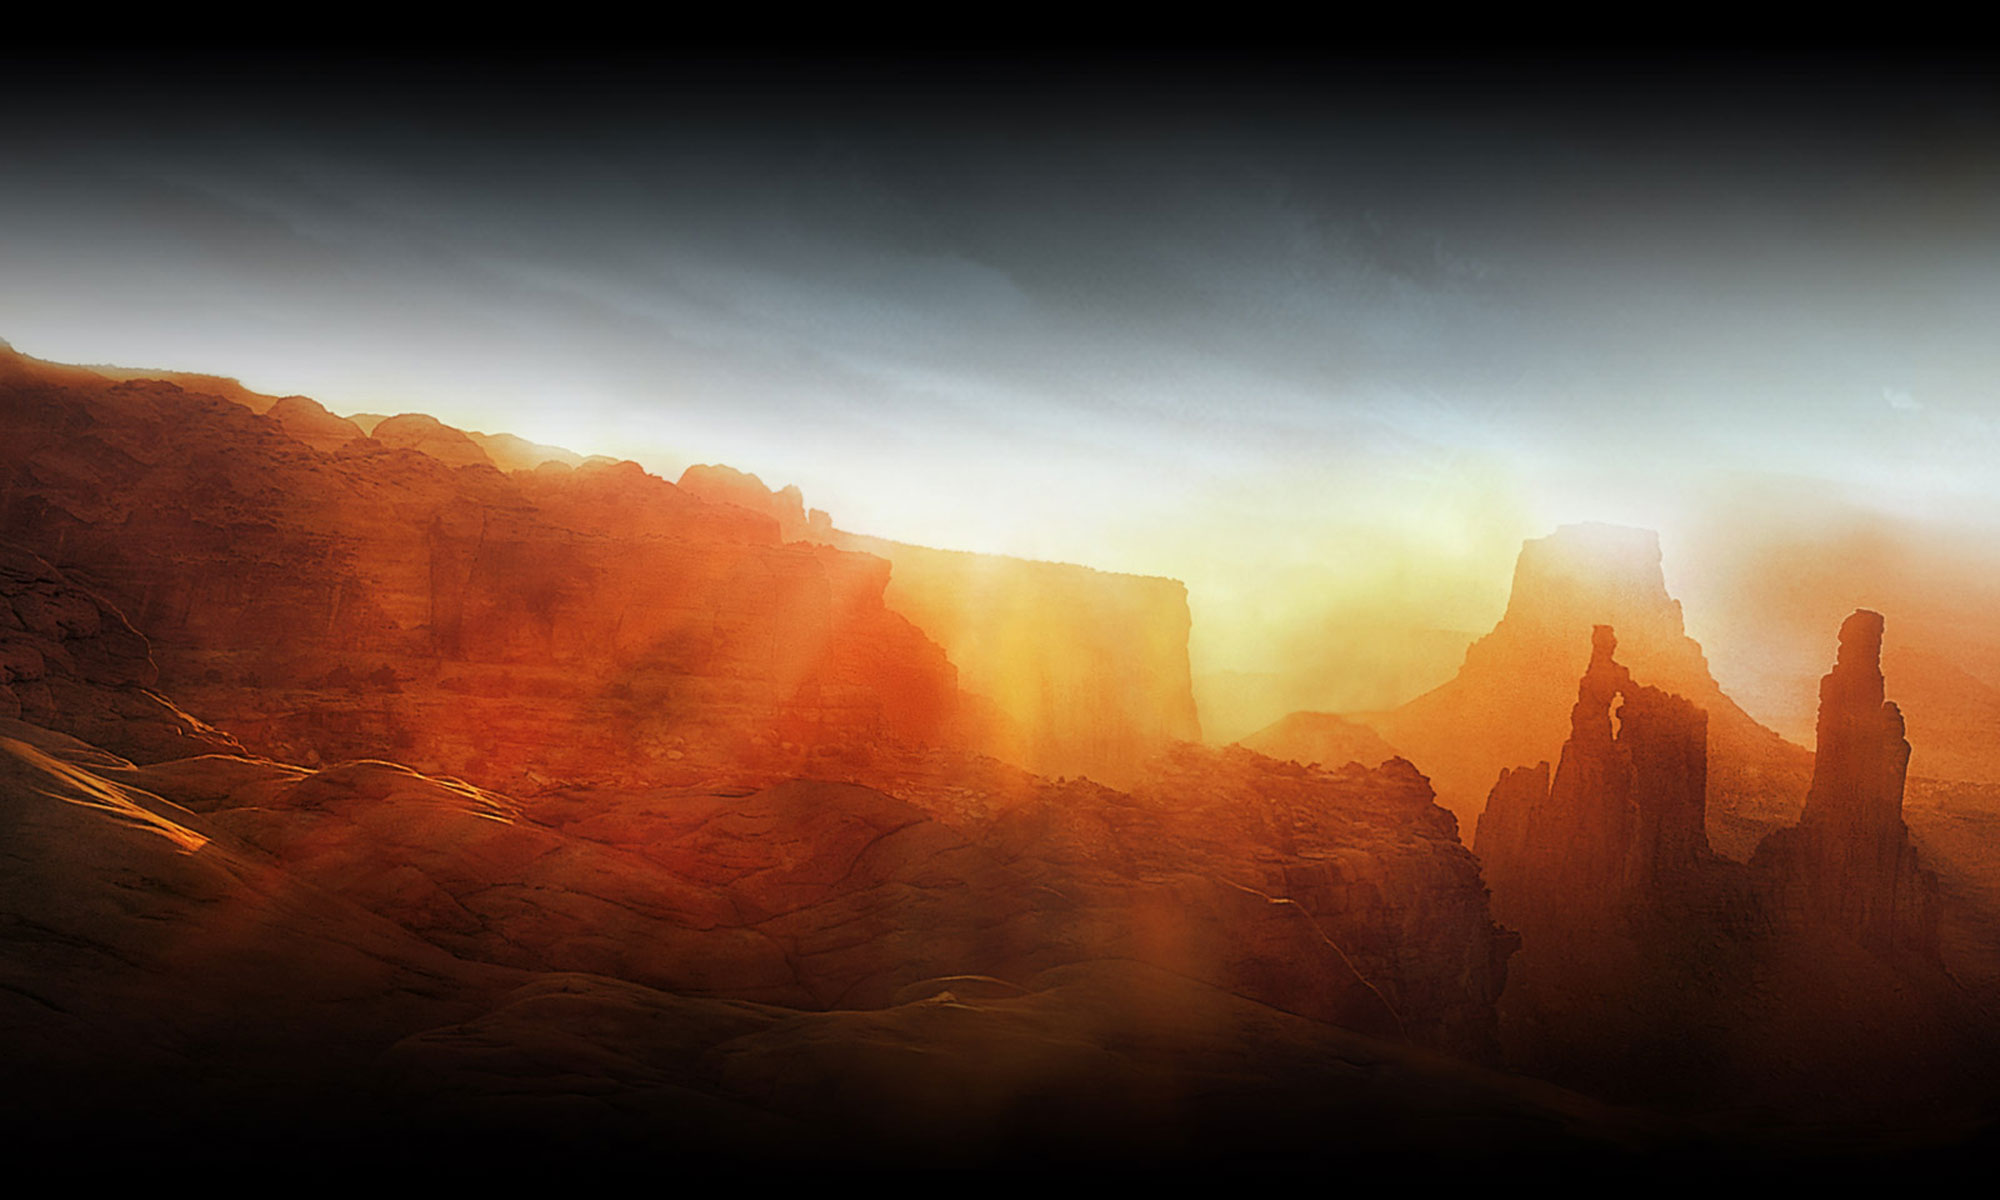
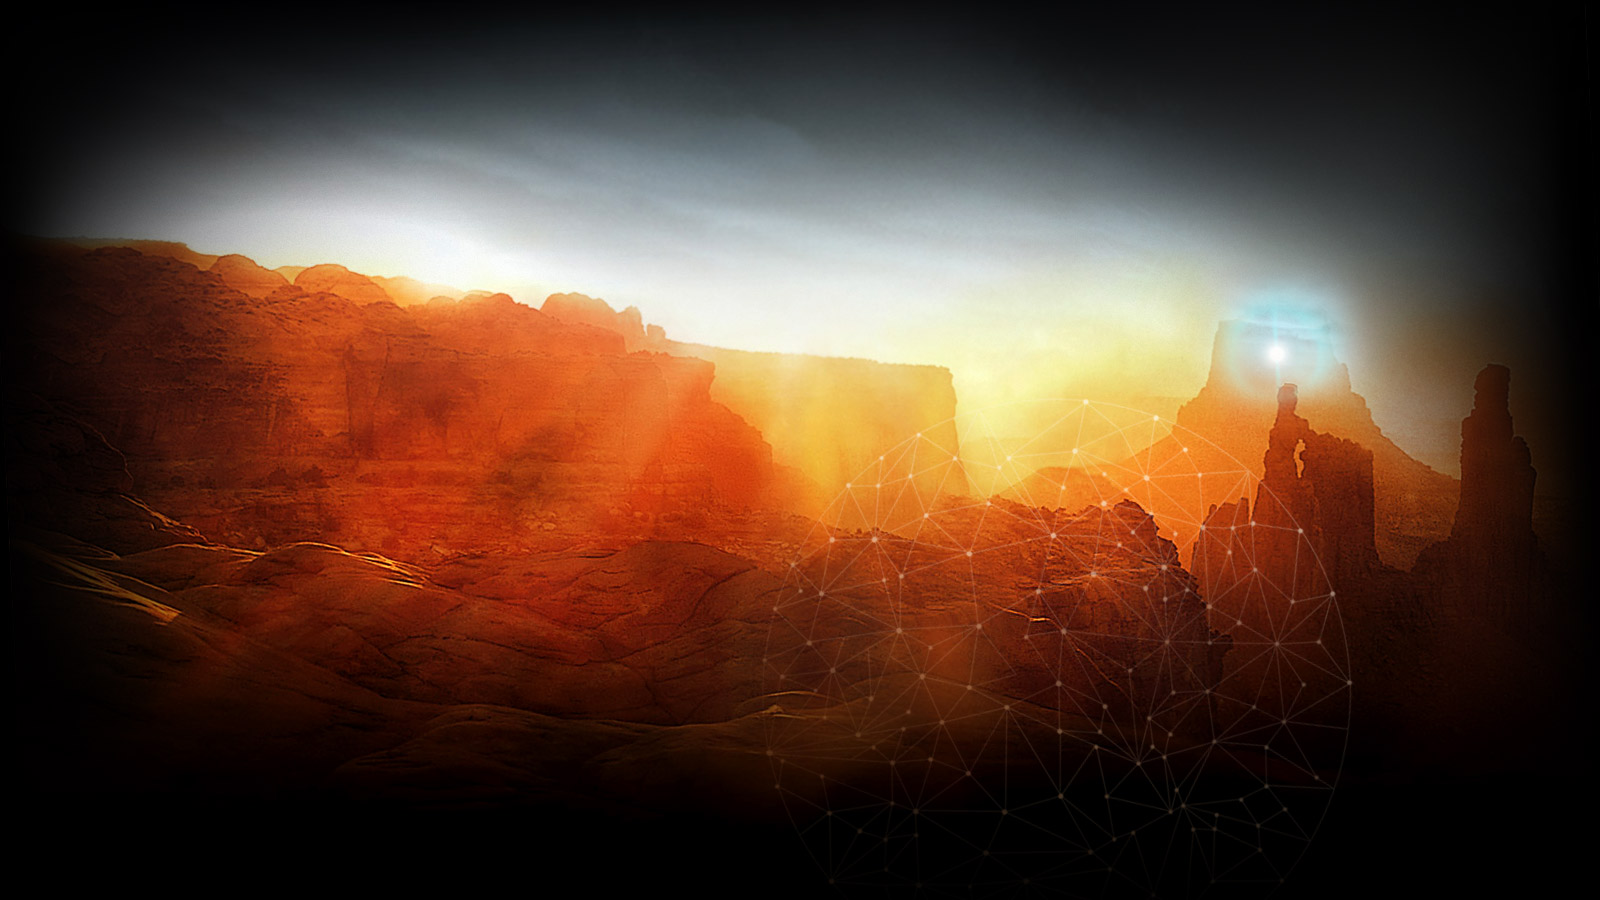
main alpha

diff --git a/css/main.css b/css/main.css
@@ -20,7 +20,7 @@ a:focus {outline: none;}
 ::-moz-selection {color: #ffffff; background: #94aabe;}
 
 html {height: 100%;}
-body {overflow: auto; height: 100%; min-width: 950px; min-height: 600px; background-color: #000000; color: #d6e5ec; line-height: 150%; font-family: 'Roboto Condensed', Helvetica, sans-serif;}
+body {overflow: auto; height: 100%; min-width: 970px; min-height: 600px; background-color: #000000; color: #d6e5ec; line-height: 150%; font-family: 'Roboto Condensed', Helvetica, sans-serif;}
 
 b, strong, h1, h2, h3, h4, h5, h6 {font-weight: normal; font-weight: 400;}
 i, em {font-style: normal;}
@@ -32,7 +32,7 @@ a:hover {color: #ffdd98; text-shadow: 0px -4px 8px #a98e57;}
 .wrap404 h2 {padding: 40px 0 30px 0; font-size: 240%;}
 .wrap404 p {font-size: 130%; line-height: 140%;}
 
-.copy {padding: 0 10px 20px 10px; font-size: 100%; color: #657379; text-align: center; opacity: 0.50; -moz-opacity: 0.850; -khtml-opacity: 0.50; filter: alpha(opacity=50);}
+.copy {padding: 0 10px 20px 10px; font-size: 14px; color: #657379; text-align: center; line-height: 30px;}
 
 #counters {position: fixed; bottom: -160px; left: 10px; z-index: 1005; width: 140px; height: 180px; text-align: right; background-image:url('/images/counters.png'); background-position: right top; background-repeat: no-repeat;}
 .counters_list {padding-top: 30px; opacity: 0.40; -moz-opacity: 0.40; -khtml-opacity: 0.40; filter: alpha(opacity=40);}
@@ -41,8 +41,10 @@ a:hover {color: #ffdd98; text-shadow: 0px -4px 8px #a98e57;}
 
 .fancybox_img img {display: none !important;}
 
-.mainWrap {position: relative; top: 0; left: 0; width: 100%; min-width: 950px; max-width: 1700px; min-height: 100px; overflow: hidden; z-index: 1; margin: 0 auto; text-align: center;}
-.mainBG {display: block; width: 100%;}
+/*.mainWrap {position: absolute; top: 0; left: 0; width: 100%; min-width: 970px; max-width: 1600px; min-height: 100px; overflow: hidden; z-index: 1; margin: 0 auto; text-align: center;}
+.mainBG {display: block; width: 100%;}*/
+
+
 .mainOverlay {position: absolute; top: 0; left: 0; width: 100%; height: 100%; z-index: 2;}
 
 

diff --git a/index.php b/index.php
@@ -1,6 +1,6 @@
 <!DOCTYPE html PUBLIC "-//W3C//DTD XHTML 1.0 Transitional//EN" "http://www.w3.org/TR/xhtml1/DTD/xhtml1-transitional.dtd">
 <html xmlns="http://www.w3.org/1999/xhtml">
-<head><title>Название — Дата</title>
+<head><title>&laquo;Гостья&raquo; — От автора саги &laquo;Сумерки&raquo; — В кино с 28 марта</title>
 
 <meta http-equiv="Content-Type" content="text/html; charset=utf-8">
 <meta http-equiv="X-UA-Compatible" content="IE=edge">
@@ -37,12 +37,6 @@
 jQuery(function($) {
 $('.dim').fadeOut(500);
 });
-
-//jQuery(function($) {
-//$("#glow").animate({opacity:0.5},2000);
-//$("#glow").delay(500);
-//$("#glow").animate({opacity:1.0},2000);
-//});
 </script>
 
 
@@ -50,21 +44,21 @@ $('.dim').fadeOut(500);
 $(document).ready(function(){
 var $glowingLogo = $("#glow"),cycle;
 (cycle = function() {
-$glowingLogo.animate({opacity:0.5},2000).delay(500).animate({opacity:1.0},2000, cycle);
+$glowingLogo.animate({opacity:0.4},4000).delay(500).animate({opacity:1.0},4000, cycle);
 })();
 });
 </script>
 
 <script type="text/javascript">
 jQuery(function($) {
-$("#menu1").css({top:"-80px",opacity:0});
-$("#menu2").css({top:"-80px",opacity:0});
-$("#menu3").css({top:"-80px",opacity:0});
-$("#menu4").css({top:"-80px",opacity:0});
+$('[id^=menu]').css({top:"-40px",opacity:0});
 $("#menu1").delay(0).animate({top:"0px",opacity:1},1000);
 $("#menu2").delay(200).animate({top:"0px",opacity:1},1000);
-$("#menu3").delay(240).animate({top:"0px",opacity:1},1000);
-$("#menu4").delay(280).animate({top:"0px",opacity:1},1000);
+$("#menu3").delay(220).animate({top:"0px",opacity:1},1000);
+$("#menu4").delay(240).animate({top:"0px",opacity:1},1000);
+$("#menu5").delay(260).animate({top:"0px",opacity:1},1000);
+$("#menu6").delay(280).animate({top:"0px",opacity:1},1000);
+$("#menu7").delay(300).animate({top:"0px",opacity:1},1000);
 });
 </script>
 
@@ -87,25 +81,54 @@ $("#menu4").delay(280).animate({top:"0px",opacity:1},1000);
 
 
 
-<div id="testmenu" style="position: absolute; top: 1; left: 1; width: 500px; height: 80px; margin: 0 auto; background-color: pink; z-index: 5; color: white;">
-<a id="menu1" href="#" style="position: relative; top: 0px; display: inline-block; width: 50px; height: 40px; background-color: gray; padding: 10px;">menu1</a>
-<a id="menu2" href="#" style="position: relative; top: 0px; display: inline-block; width: 50px; height: 40px; background-color: gray; padding: 10px;">menu2</a>
-<a id="menu3" href="#" style="position: relative; top: 0px; display: inline-block; width: 50px; height: 40px; background-color: gray; padding: 10px;">menu3</a>
-<a id="menu4" href="#" style="position: relative; top: 0px; display: inline-block; width: 50px; height: 40px; background-color: gray; padding: 10px;">menu4</a>
+<style type="text/css">
+.testmenu {position: fixed; top: 0; left: 0; width: 100%; min-width: 970px; height: 40px; margin: 0 auto; background-color: #3a4f5c; text-align: center; z-index: 5; color: white;}
+.testmenuitems {position: relative; top: 0px; display: inline-block; width: 70px; height: 16px; line-height: 20px; background-color: #2f434f; color: #ffffff !important; padding: 10px; font-size: 14px; font-weight: normal; text-transform: uppercase; text-decoration: none; border-bottom: 4px solid transparent;}
+.tm_active {border-bottom: 4px solid #ffa227;}
+.testmenuitems:hover {text-shadow: none; border-bottom: 4px solid #ffa227;}
+.tm_disabled {color: #8e9da3 !important; cursor: default;}
+.tm_disabled:hover {color: #8e9da3; border-bottom: 4px solid transparent !important; text-shadow: none;}
+</style>
+
+<div id="testmenu" class="testmenu">
+<a id="menu1" class="testmenuitems fadeout tm_active" href="/">Главная</a>
+<a id="menu2" class="testmenuitems fadeout" href="javascript:void(0)">Новости</a>
+<a id="menu3" class="testmenuitems fadeout tm_disabled" href="javascript:void(0)">Книга</a>
+<a id="menu4" class="testmenuitems fadeout tm_disabled" href="javascript:void(0)">Фильм</a>
+<a id="menu5" class="testmenuitems fadeout tm_disabled" href="javascript:void(0)">Команда</a>
+<a id="menu6" class="testmenuitems fadeout tm_disabled" href="javascript:void(0)">Видео</a>
+<a id="menu7" class="testmenuitems fadeout tm_disabled" href="javascript:void(0)">Кадры</a>
 </div>
 
 
-<div class="mainWrap">
-	<img class="mainBG noSelect" src="/images/mainBG.jpg">
+<!--div class="heroesWrap">
+	<img class="heroesBG noSelect" src="/images/heroesBG.png">
 	<div class="mainOverlay noSelect">&nbsp;</div>
 </div>
+<div class="mainWrap">
+	<img class="mainBG noSelect" src="/images/mainBG.jpg">
+</div-->
 
-<div style="text-transform: uppercase; position: absolute; left: 0; top: 30%; text-align: left; z-index: 3;">
 
-	<p><a class="fadeout" href="/404/index.php">test link</a></p>
-	
-	<img src="/images/title-glow.png" id="glow" style="display: block; padding: 20px;">
-	
+<style type="text/css">
+.bg_wrap {position: absolute; top: 20px; left: 0; width: 100%; min-width: 970px; min-height: 900px; overflow: hidden; z-index: 1; margin: 0 auto; text-align: center; background-image: url('/images/bg_main.jpg'); background-position: center top; background-repeat: no-repeat; background-size: contain;
+-ms-behavior: url(/backgroundsize.min.htc);}
+
+/*.heroes_wrap {position: absolute; top: 0; left: 0; width: 100%; min-width: 970px; max-width: 1600px; min-height: 900px; overflow: hidden; z-index: 2; margin: 0 auto; text-align: center; background-image: url('/images/heroesBG.png'); background-position: center top; background-repeat: no-repeat; background-size: contain;}*/
+
+.testtitle {position: absolute; right: 140px; top: -60px; width: 60%; height: 600px; z-index: 3; background-image: url('/images/testtitle.png'); background-position: center top; background-repeat: no-repeat; background-size: contain;}
+.testglow {position: absolute; right: 140px; top: -60px; width: 60%; height: 600px; z-index: 2; background-image: url('/images/testglow.png'); background-position: center top; background-repeat: no-repeat; background-size: contain;}
+</style>
+
+<div class="bg_wrap">
+	<div class="testtitle">suka1</div>
+	<div id="glow" class="testglow" style="display: block;">suka2</div>
+</div>
+
+
+
+<div style="display: none; text-transform: uppercase; position: absolute; left: 0; top: 70%; text-align: left; z-index: 3; padding-bottom: 50px;">
+
 	<div class="noSelect" style="margin-left: 100px; margin-bottom: 20px; display: inline-block; background-color: black; -webkit-border-radius: 50%; -moz-border-radius: 50%; border-radius: 50%;"><img src="/images/spinner.gif" style="padding: 6px;"></div>
 	
 	<h1>Lorem ipsum dolor sit amet, consectetur adipisicing elit, sed do eiusmod tempor incididunt ut labore et dolore magna aliqua. Ut enim ad minim veniam, quis nostrud exercitation ullamco laboris nisi ut aliquip ex ea commodo consequat.</h1>
@@ -122,14 +145,15 @@ $("#menu4").delay(280).animate({top:"0px",opacity:1},1000);
 </div>
 
 
+<div id="testfooter" style="position: fixed; bottom: 0; left: 0; width: 100%; height: 30px; margin: 0 auto; background-color: #3c3c3c; text-align: center; z-index: 5;">
+	<div class="copy">&copy; 2013 &laquo;<a class="fadeout" href="http://www.westvideo.ru">Вест Видео</a>&raquo;. Создание сайта: <a class="fadeout" href="http://www.kg-design.ru/">КГ-Дизайн</a></div>	
+</div>
 
-<div class="copy">&copy; 2013 &laquo;<a class="fadeout" href="http://www.westvideo.ru">Вест Видео</a>&raquo;. Создание сайта: <a class="fadeout" href="http://www.kg-design.ru/">КГ-Дизайн</a></div>
 
 <div id="counters">
 	<div class="counters_list">
-	<p>А это наши прекрасные счетчики:</p>
 	<p>
-	<?php include ("counters_include.php"); ?>	
+	<?php //include ("counters_include.php"); ?>	
 	</p>
 	</div>
 </div>
